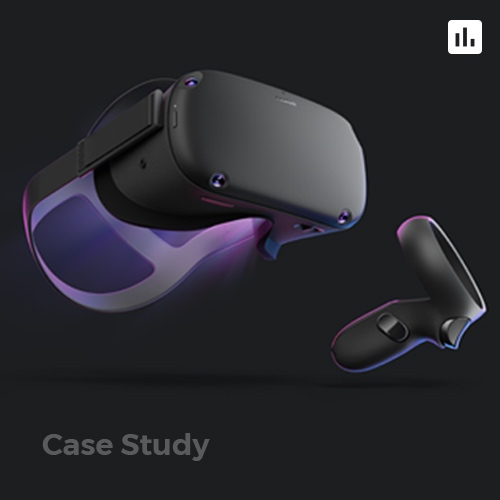
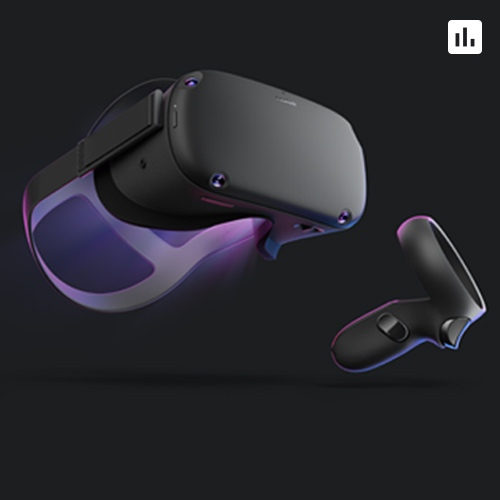
Version 1.1.8.9.6
Changes:
- Final description text transition changes

Changed region(s): [[0.09, 0.87, 0.42, 0.93]]

diff --git a/style.css b/style.css
@@ -392,13 +392,13 @@ p.jobDescription{
     box-sizing: border-box;
     box-shadow: 0 15px 15px rgba(0,0,0,.08);
     overflow: hidden;
-    -webkit-transition: all 200ms ease-in;
+    -webkit-transition: all 200ms ease;
     -webkit-transform: scale(1.05);
-    -ms-transition: all 200ms ease-in;
+    -ms-transition: all 200ms ease;
     -ms-transform: scale(1.05);
-    -moz-transition: all 200ms ease-in;
+    -moz-transition: all 200ms ease;
     -moz-transform: scale(1.05);
-    transition: all 200ms ease-in;
+    transition: all 200ms ease;
     transform: scale(1.05);
   }
 
@@ -412,10 +412,10 @@ p.jobDescription{
     height: 0px;
   	padding-top: 0px;
     overflow:hidden;
-    -webkit-transition: all 0.2s ease-in-out;
-    -moz-transition: all 0.2s ease-in-out;
-    -o-transition: all 0.2s ease-in-out;
-    transition: all 0.2s ease-in-out;
+    -webkit-transition: all 200ms ease;
+    -moz-transition: all 200ms ease;
+    -o-transition: all 200ms ease;
+    transition: all 200ms ease;
     margin-top:300px;
   	position:absolute;
   	background: rgba(0, 0, 0, 0.5);
